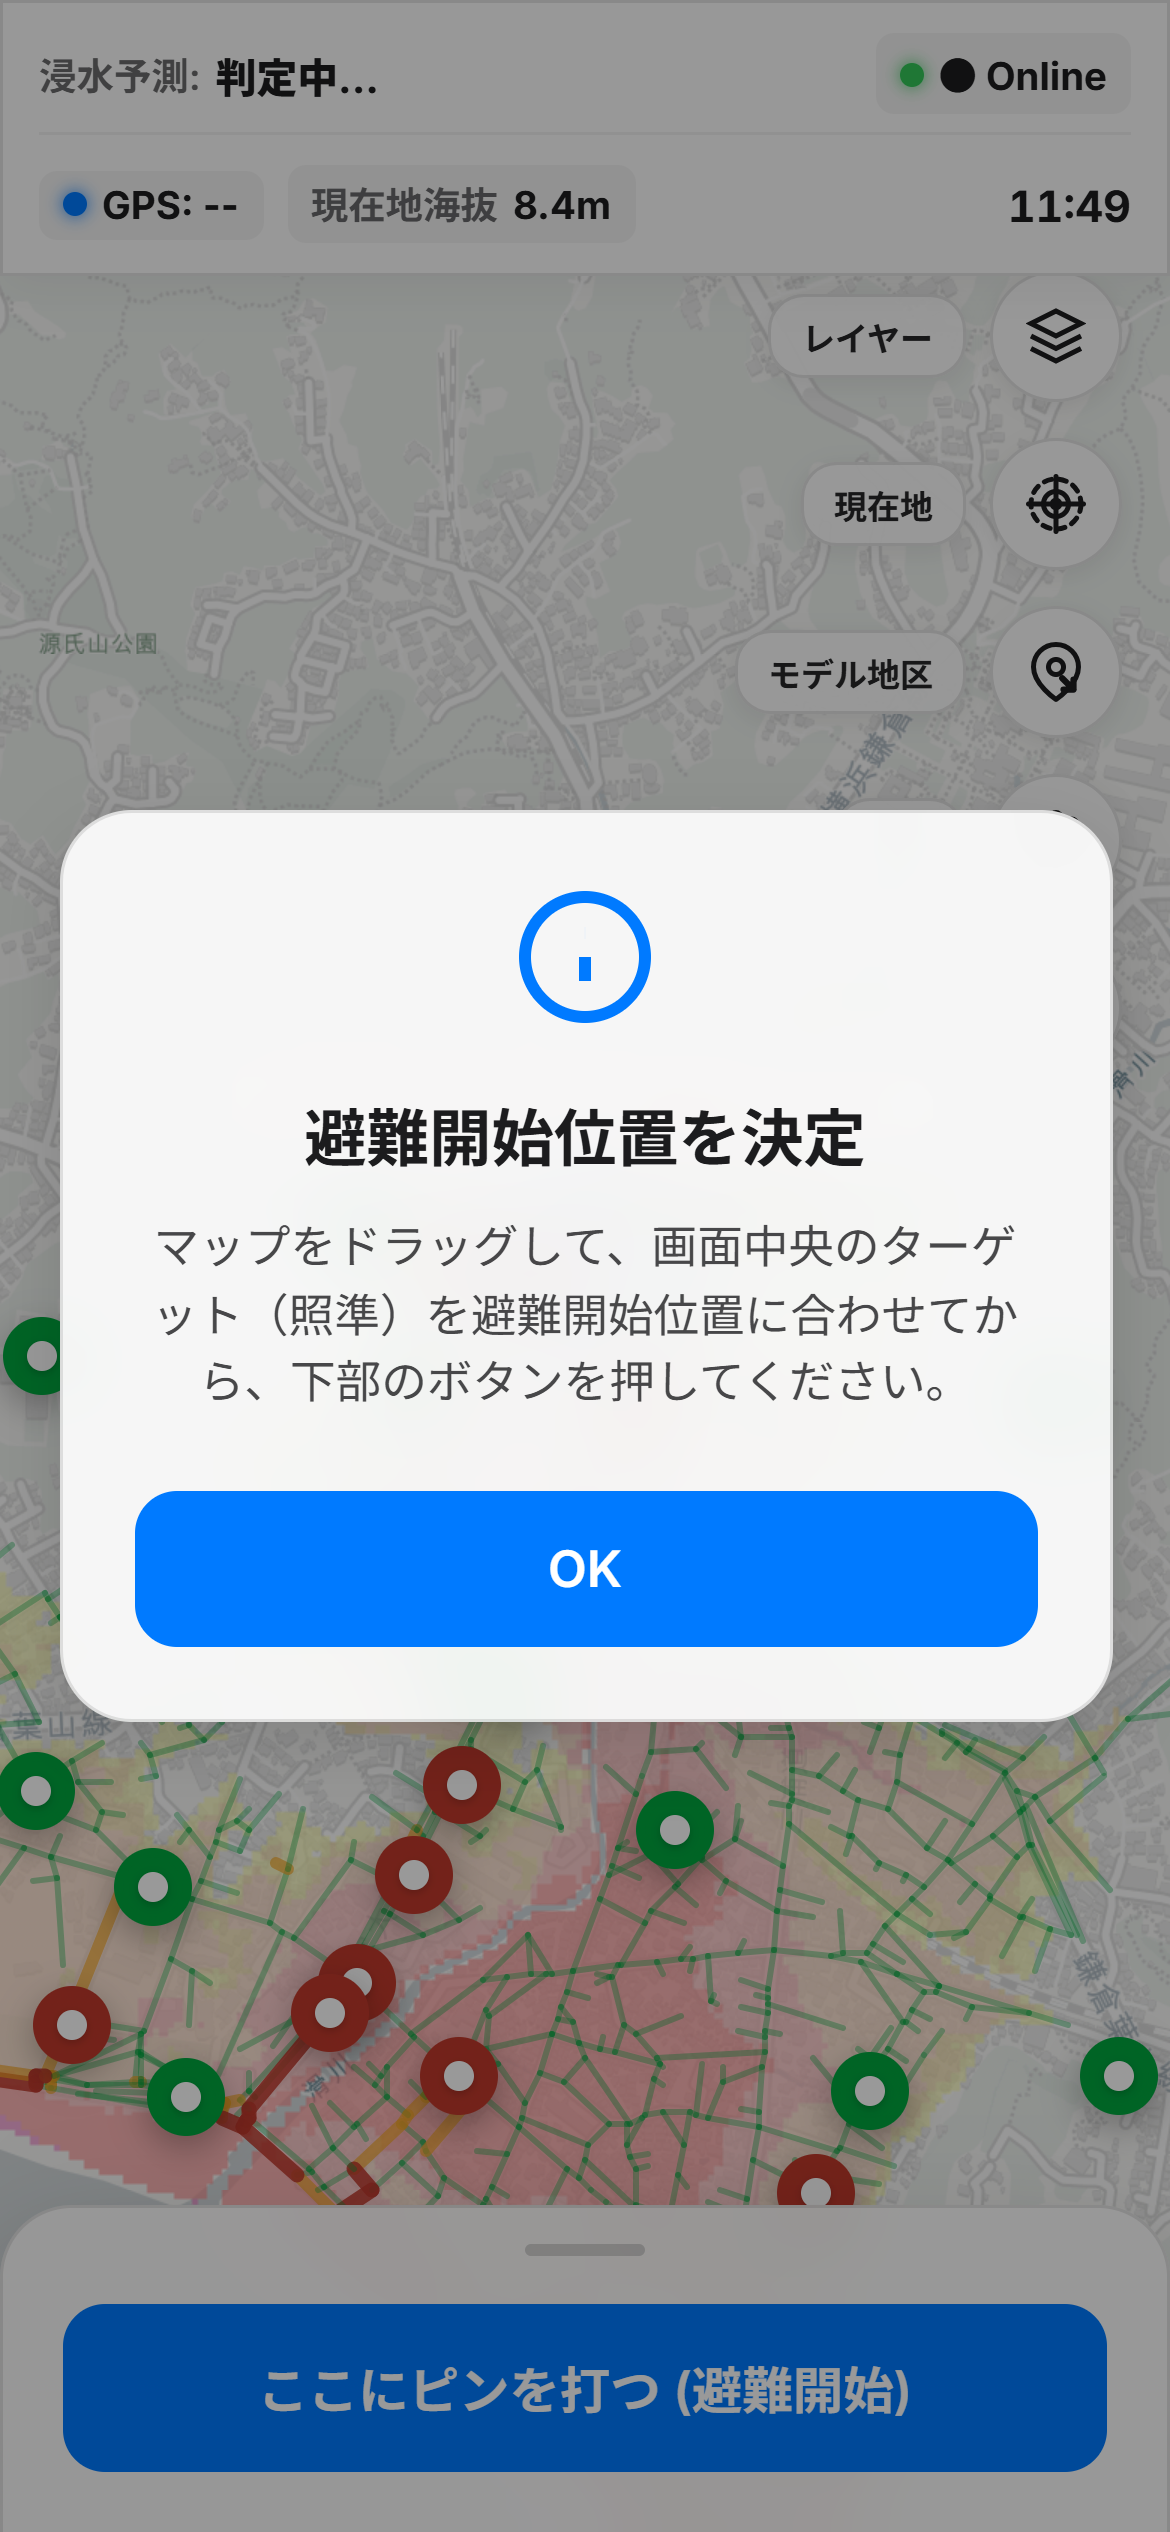
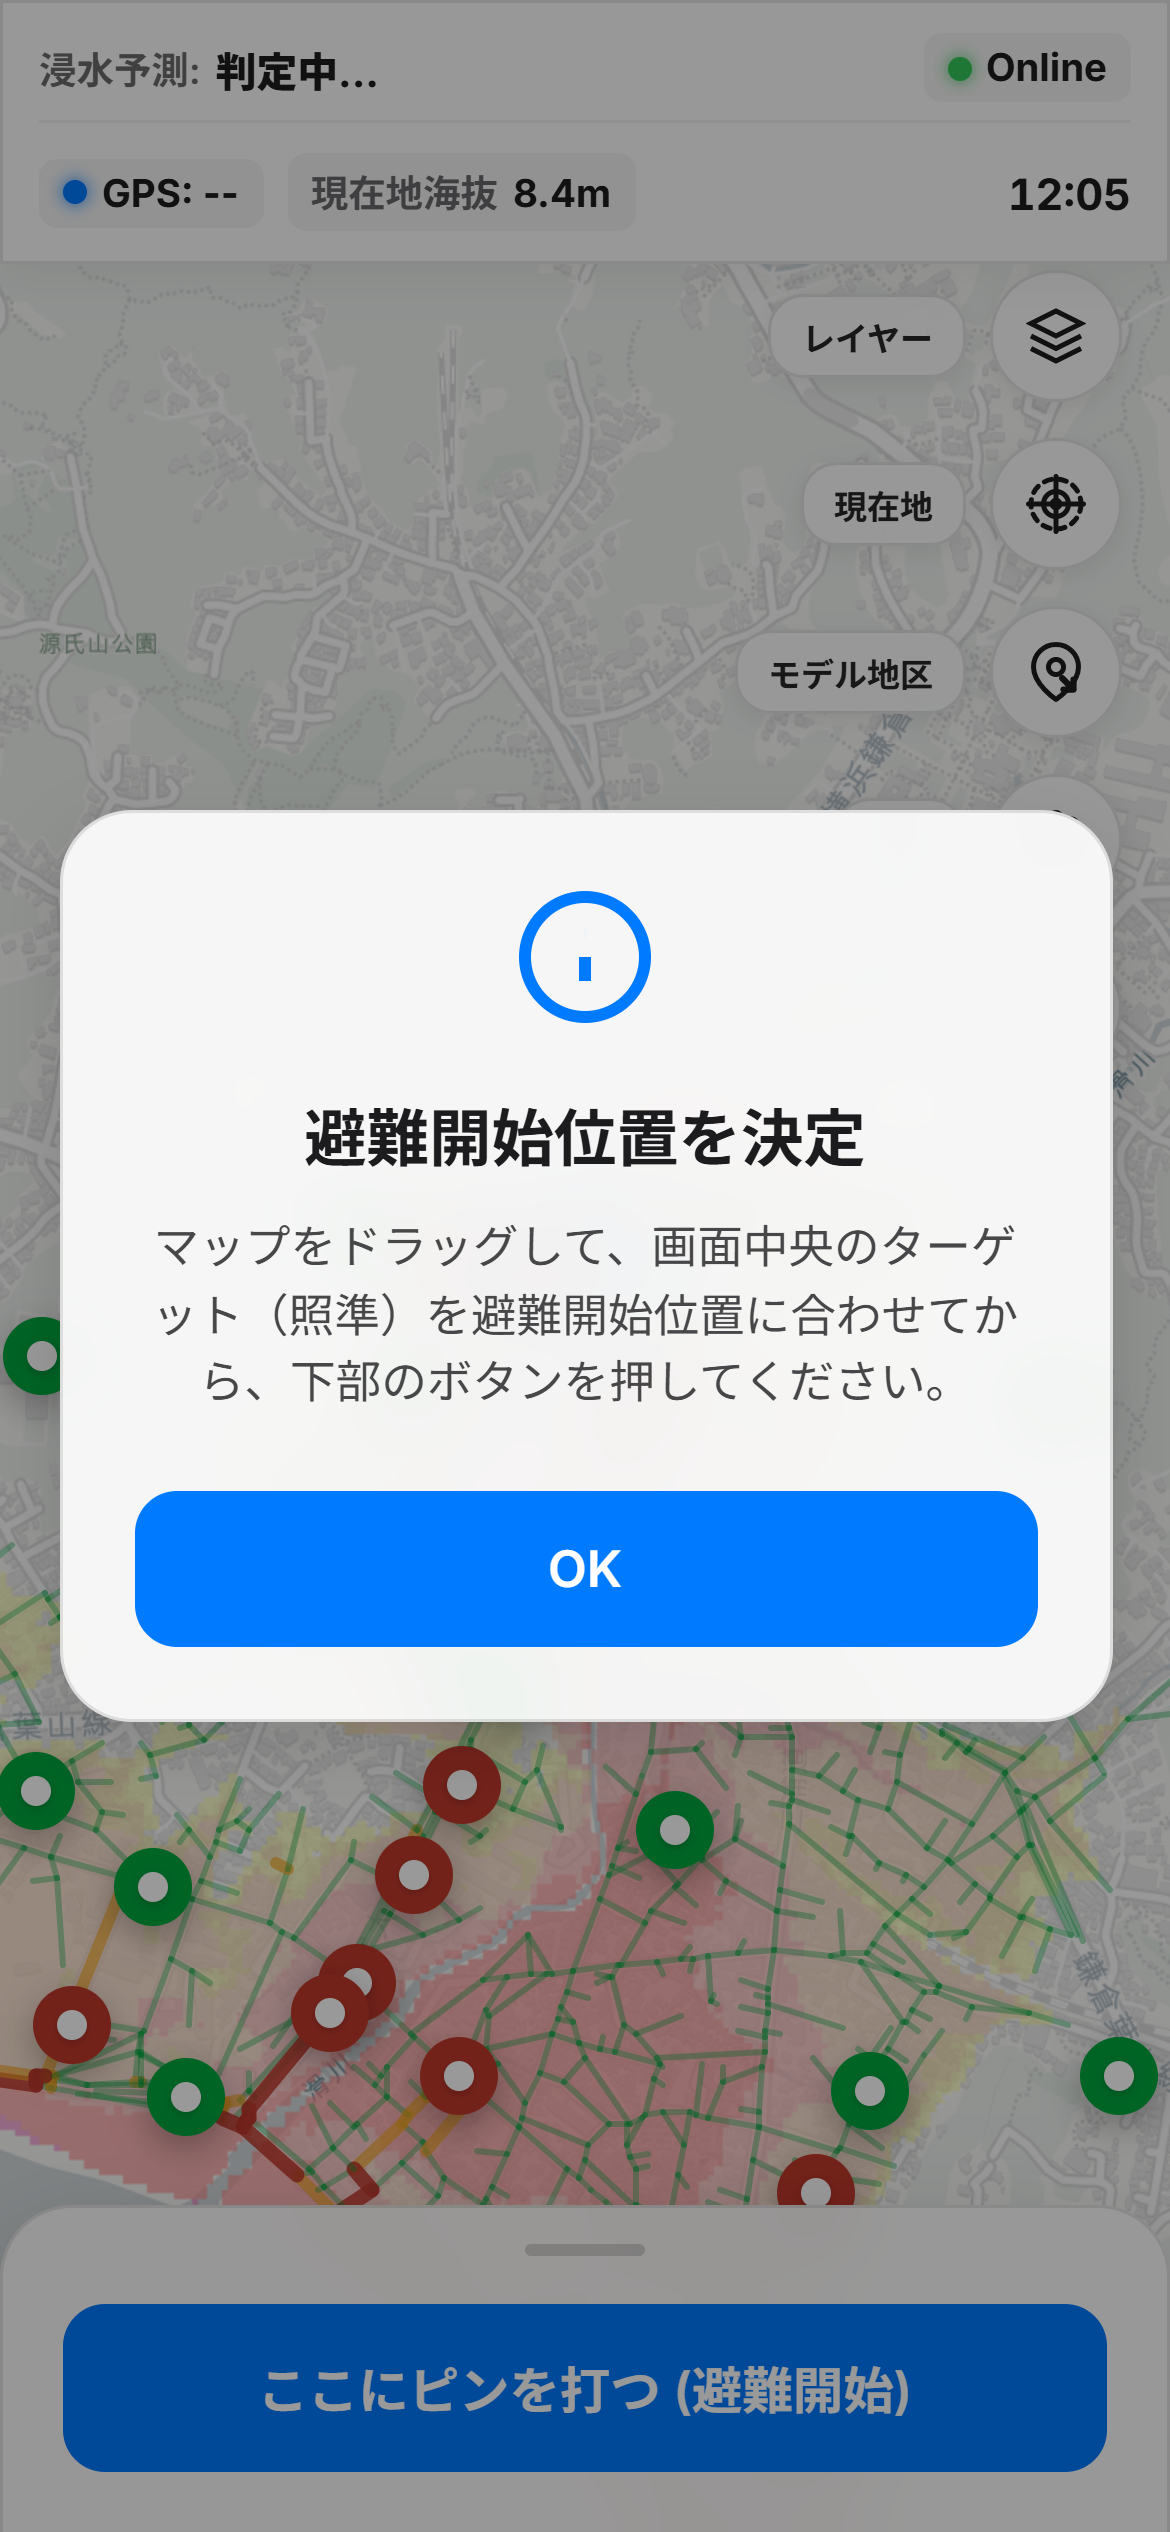
Fix: Finalize nationwide generalization (Geolocation, municipal limits removal, ray-cast river sandwich filter) and remove duplicate online HUD dot

diff --git a/tenden-app/app.js b/tenden-app/app.js
@@ -94,9 +94,29 @@ document.addEventListener('DOMContentLoaded', () => {
 
  function initMap() {
  map = L.map('map', {
- zoomControl: false,
- attributionControl: false
- }).setView(KAMAKURA_CENTER, 14);
+  zoomControl: false,
+  attributionControl: false
+  }).setView(KAMAKURA_CENTER, 14);
+
+  // Try to dynamically center on user's live position on load!
+  if (navigator.geolocation) {
+    navigator.geolocation.getCurrentPosition(
+      (position) => {
+        const userLoc = [position.coords.latitude, position.coords.longitude];
+        map.setView(userLoc, 14);
+        console.log(`[TENDEN] Geolocation centered map at: ${userLoc}`);
+        currentLocation = { lat: position.coords.latitude, lng: position.coords.longitude };
+        updateMarker(currentLocation);
+        fetchElevation(currentLocation);
+        triggerLocationTsunamiCheck(currentLocation);
+        generalizeFirstTargets(currentLocation);
+      },
+      () => {
+        console.log('[TENDEN] Geolocation failed or permission denied on load, using default Kamakura center.');
+      },
+      { timeout: 5000 }
+    );
+  }
 
  // OSM Light style for Normal mode
  L.tileLayer('https://{s}.basemaps.cartocdn.com/light_all/{z}/{x}/{y}{r}.png', {
@@ -1217,18 +1237,33 @@ document.addEventListener('DOMContentLoaded', () => {
  speakI18n('speechEvacStart');
  triggerDynamicIsland(`${sc.title}: ${scLoc.desc}`, 'warning');
  
- if (isTest) {
- // Keep user's custom location if it is within the Kamakura model area, otherwise fallback to scenario start
- if (!isInModelArea(currentLocation)) {
- isManualLocation = true;
- currentLocation = { lat: scLoc.start.lat, lng: scLoc.start.lng };
- }
- map.setView([currentLocation.lat, currentLocation.lng], 16);
- updateMarker(currentLocation);
- 
- // Generate dynamic routes from the pin location and show the modern bottom-sheet selector
- recalculateRouteFromLocation(currentLocation);
- } else {
+ // Dynamically update banner content based on whether the drill is inside the Kamakura research model area
+  let localizedDesc = scLoc.desc;
+  const isKamakura = isInModelArea(currentLocation);
+  if (!isKamakura) {
+    const lang = getLanguageCode();
+    const generalDescs = {
+      'ja': '直ちに近くの安全な高台（第一目標）へ避難してください。',
+      'en': 'Evacuate immediately to a nearby safe high ground (First Goal).',
+      'zh': '请立即撤离到附近安全的高地（第一目标）。',
+      'ko': '즉시 인근의 안전한 고지대(제1 목표)로 대피하십시오.'
+    };
+    localizedDesc = generalDescs[lang] || generalDescs['en'];
+  }
+  document.getElementById('i18n-evac-desc').innerText = localizedDesc;
+
+  if (isTest) {
+  // If we are outside Kamakura, keep the user's custom location! DO NOT fallback to Kamakura scLoc.start!
+  if (!currentLocation) {
+  isManualLocation = true;
+  currentLocation = { lat: scLoc.start.lat, lng: scLoc.start.lng };
+  }
+  map.setView([currentLocation.lat, currentLocation.lng], 16);
+  updateMarker(currentLocation);
+  
+  // Generate dynamic routes from the pin location and show the modern bottom-sheet selector
+  recalculateRouteFromLocation(currentLocation);
+  } else {
  // Real emergency: calculate routes automatically and default to B
  recalculateRouteFromLocation(currentLocation);
  }
@@ -2852,10 +2887,10 @@ document.addEventListener('DOMContentLoaded', () => {
  const dict = i18nDict[getLanguageCode()] || i18nDict['ja'] || {};
 
  if (navigator.onLine) {
- netText.innerText = dict.onlineBadge || '● Online';
+ netText.innerText = dict.onlineBadge || 'Online';
  netBox.className = 'status-badge network-badge';
  } else {
- netText.innerText = dict.offlineBadge || '● Offline (PWA)';
+ netText.innerText = dict.offlineBadge || 'Offline (PWA)';
  netBox.className = 'status-badge network-badge network-offline';
  }
  }
@@ -3112,12 +3147,7 @@ document.addEventListener('DOMContentLoaded', () => {
  function isNearCoastOrWater(lat, lng) {
   // (Moved window.turf check below)
  
- // Strictly exclude anything outside Kamakura municipal limits:
- // Exclude if it's east of 139.585, OR if it's in Zushi/Kotsubo (east of 139.563 AND south of 35.308), OR south of 35.295.
- if (lng > 139.585 || (lng > 139.563 && lat < 35.308) || lat < 35.295) {
- console.log(`[SafeEdge] City Limits Filter: Excluded point outside Kamakura city boundaries or inside Zushi: ${lat}, ${lng}`);
- return true;
- }
+ 
  
  // [CRITICAL] Mathematical Ocean Exclusion:
  // Coastline coordinates from West to East in Kamakura city limits
@@ -3287,6 +3317,53 @@ document.addEventListener('DOMContentLoaded', () => {
   return;
   }
   
+  // Dynamic generalizable riverbank anomaly sandwich check
+  let isSandwiched = false;
+  const OPPOSITE_PAIRS = [
+    [[0, -1], [0, 1]],   // West - East
+    [[-1, 0], [1, 0]],   // North - South
+    [[-1, -1], [1, 1]],  // Northwest - Southeast
+    [[-1, 1], [1, -1]]   // Northeast - Southwest
+  ];
+  const MAX_RIVER_WIDTH_PX = 10;
+  
+  for (const [dir1, dir2] of OPPOSITE_PAIRS) {
+    let hit1 = false;
+    let hit2 = false;
+    
+    for (let d = 1; d <= MAX_RIVER_WIDTH_PX; d++) {
+      const nx = px + dir1[0] * d;
+      const ny = py + dir1[1] * d;
+      if (nx >= 0 && nx < 256 && ny >= 0 && ny < 256) {
+        if (pixels[(ny * 256 + nx) * 4 + 3] > 0) {
+          hit1 = true;
+          break;
+        }
+      }
+    }
+    
+    for (let d = 1; d <= MAX_RIVER_WIDTH_PX; d++) {
+      const nx = px + dir2[0] * d;
+      const ny = py + dir2[1] * d;
+      if (nx >= 0 && nx < 256 && ny >= 0 && ny < 256) {
+        if (pixels[(ny * 256 + nx) * 4 + 3] > 0) {
+          hit2 = true;
+          break;
+        }
+      }
+    }
+    
+    if (hit1 && hit2) {
+      isSandwiched = true;
+      break;
+    }
+  }
+  
+  if (isSandwiched) {
+    console.log(`[SafeEdge] verifyAndClean: Excluded sandwiched riverbed/riverbank anomaly: ${edge.name || edge.id} (${edge.lat}, ${edge.lng})`);
+    return;
+  }
+  
   // Check safety buffer R_SAFE (80m)
   const R_SAFE = 8;
   let tooClose = false;
@@ -3355,16 +3432,25 @@ document.addEventListener('DOMContentLoaded', () => {
  
  // Dynamic Bounding Box calculation based on currentLocation to generalize to any location in Japan!
  let bbox = { latMin: 35.27, latMax: 35.37, lngMin: 139.47, lngMax: 139.585 };
- if (currentLocation && currentLocation.lat && currentLocation.lng) {
- // Generate a ~10km bounding box centered at the user's current location
- bbox = {
- latMin: currentLocation.lat - 0.05,
- latMax: currentLocation.lat + 0.05,
- lngMin: currentLocation.lng - 0.06,
- lngMax: currentLocation.lng + 0.06
- };
- console.log(`[SafeEdge] Dynamic Bounding Box generated centered at: ${currentLocation.lat}, ${currentLocation.lng}`);
- }
+  
+  if (currentLocation && currentLocation.lat && currentLocation.lng) {
+  bbox = {
+  latMin: currentLocation.lat - 0.05,
+  latMax: currentLocation.lat + 0.05,
+  lngMin: currentLocation.lng - 0.06,
+  lngMax: currentLocation.lng + 0.06
+  };
+  console.log(`[SafeEdge] Dynamic Bounding Box generated centered at currentLocation: ${currentLocation.lat}, ${currentLocation.lng}`);
+  } else if (map) {
+  const bounds = map.getBounds();
+  bbox = {
+  latMin: bounds.getSouth(),
+  latMax: bounds.getNorth(),
+  lngMin: bounds.getWest(),
+  lngMax: bounds.getEast()
+  };
+  console.log(`[SafeEdge] Dynamic Bounding Box generated from active map view bounds.`);
+  }
  const zoom = 14; // ~10m per pixel — high resolution
  const pow2 = Math.pow(2, zoom);
 
@@ -3420,6 +3506,58 @@ document.addEventListener('DOMContentLoaded', () => {
 
  // Skip if the point is near the coastline or rivers
  if (isNearCoastOrWater(lat, lng)) continue;
+
+  // [GENERALIZED APPROACH C] Topological Opposite-Ray-Casting River/Estuary Filter
+  // This mathematically detects narrow riverbeds, riverbanks, and dynamic estuary slits
+  // by verifying if a transparent (safe) pixel is sandwiched between inundated (colored) pixels
+  // in any opposite direction pair. Check up to 10 pixels (~100m) in 4 directions.
+  let isSandwiched = false;
+  const OPPOSITE_PAIRS = [
+    [[0, -1], [0, 1]],   // West - East
+    [[-1, 0], [1, 0]],   // North - South
+    [[-1, -1], [1, 1]],  // Northwest - Southeast
+    [[-1, 1], [1, -1]]   // Northeast - Southwest
+  ];
+  const MAX_RIVER_WIDTH_PX = 10;
+  
+  for (const [dir1, dir2] of OPPOSITE_PAIRS) {
+    let hit1 = false;
+    let hit2 = false;
+    
+    // Cast ray in direction 1
+    for (let d = 1; d <= MAX_RIVER_WIDTH_PX; d++) {
+      const nx = px + dir1[0] * d;
+      const ny = py + dir1[1] * d;
+      if (nx >= 0 && nx < 256 && ny >= 0 && ny < 256) {
+        if (pixels[(ny * 256 + nx) * 4 + 3] > 0) {
+          hit1 = true;
+          break;
+        }
+      }
+    }
+    
+    // Cast ray in direction 2 (opposite)
+    for (let d = 1; d <= MAX_RIVER_WIDTH_PX; d++) {
+      const nx = px + dir2[0] * d;
+      const ny = py + dir2[1] * d;
+      if (nx >= 0 && nx < 256 && ny >= 0 && ny < 256) {
+        if (pixels[(ny * 256 + nx) * 4 + 3] > 0) {
+          hit2 = true;
+          break;
+        }
+      }
+    }
+    
+    if (hit1 && hit2) {
+      isSandwiched = true;
+      break;
+    }
+  }
+  
+  if (isSandwiched) {
+    console.log(`[SafeEdge] Excluded point inside sandwiched riverbed/riverbank anomaly at ${lat.toFixed(5)}, ${lng.toFixed(5)}`);
+    continue;
+  }
 
   // [CRITICAL] R_SAFE Safety Margin Check (8 pixels ≈ 80m buffer from inundation pixels)
  // This mathematically guarantees that no green plot point lies inside or overlaps with the pink/red hazard zone.

diff --git a/tenden-app/index.html b/tenden-app/index.html
@@ -69,7 +69,7 @@
  </div>
  <div class="status-badge network-badge" id="network-status">
  <span class="network-dot"></span>
- <strong id="network-text">● Online</strong>
+ <strong id="network-text">Online</strong>
  </div>
  </div>
  <div class="status-right">

diff --git a/tenden-app/sw.js b/tenden-app/sw.js
@@ -1,5 +1,5 @@
-const CACHE_NAME = 'tenden-v48';
-const DYNAMIC_CACHE = 'tenden-dynamic-v48';
+const CACHE_NAME = 'tenden-v49';
+const DYNAMIC_CACHE = 'tenden-dynamic-v49';
 
 
 
